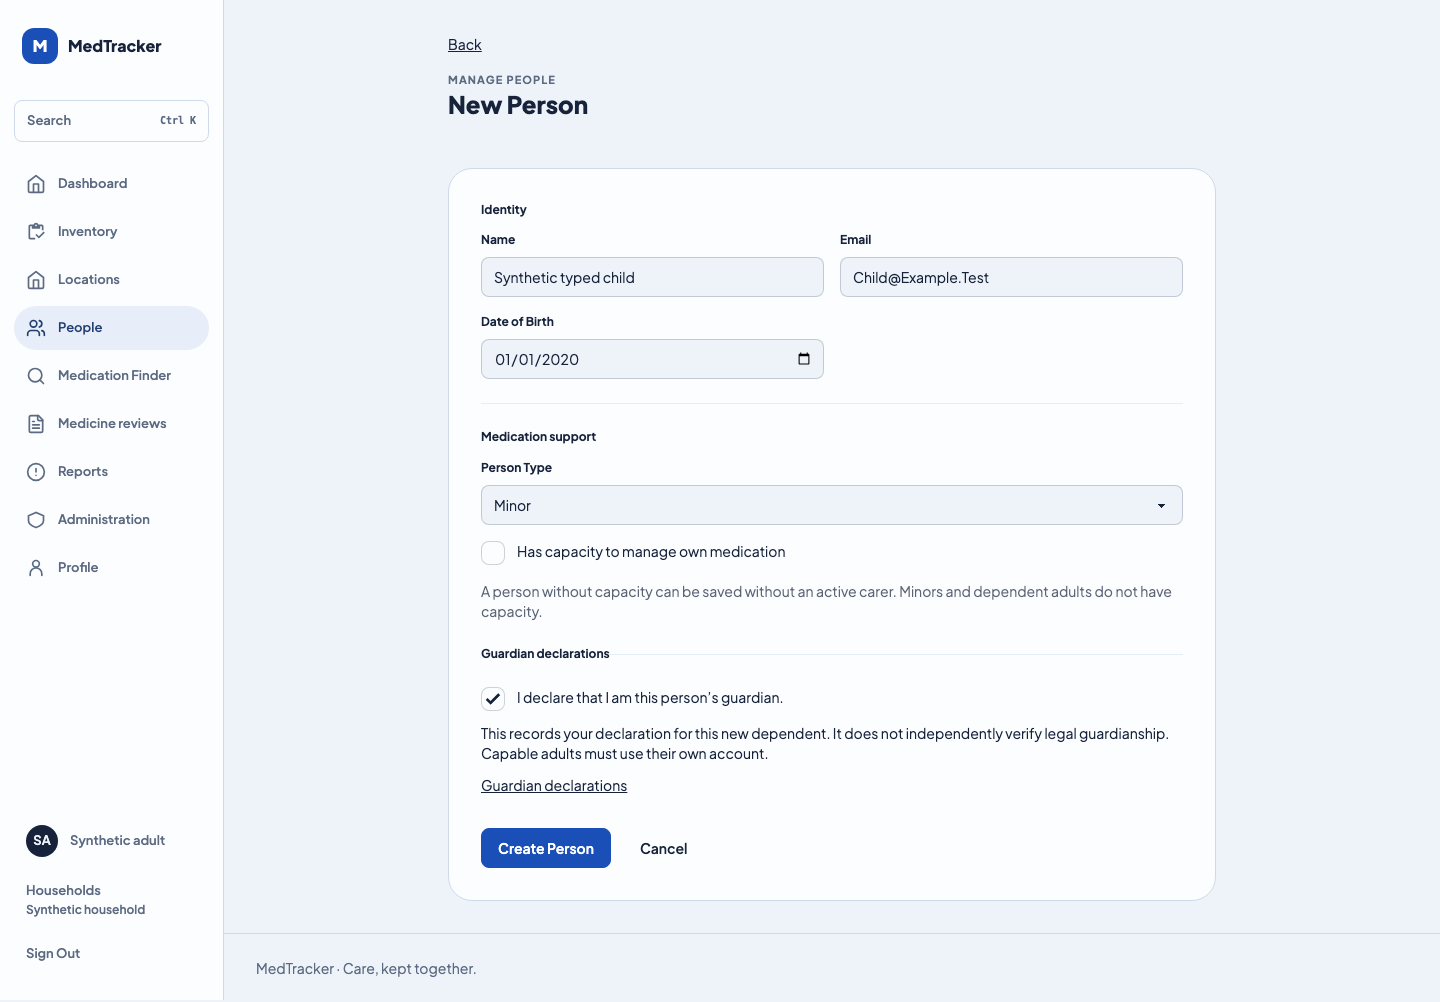
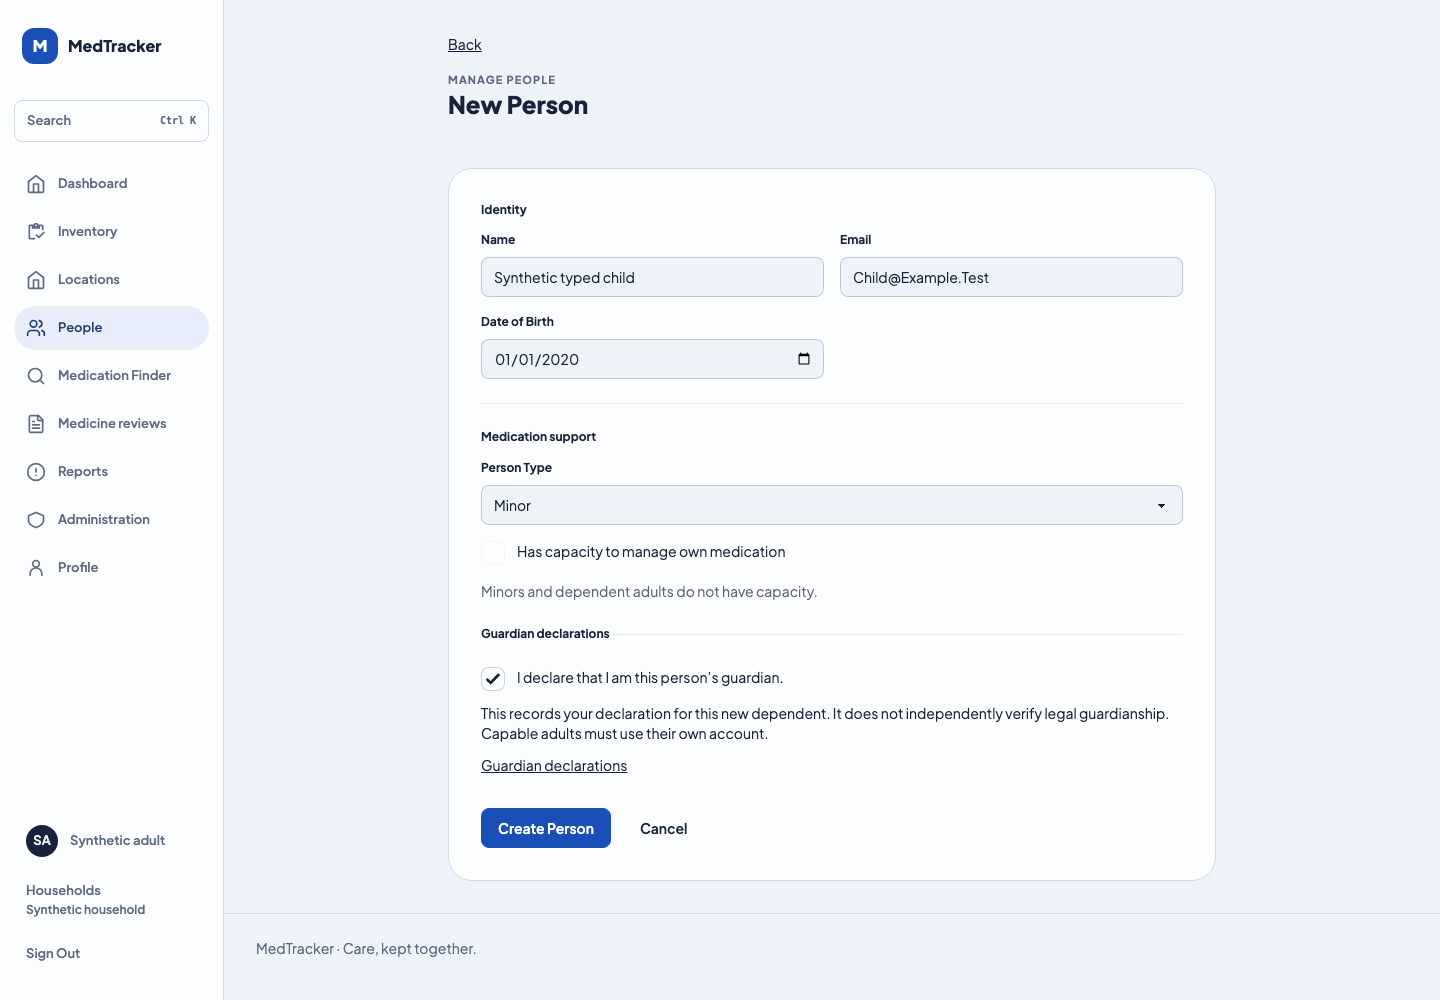
fix: clarify capacity on new person forms (#2920)

diff --git a/assets/views/people/form.html b/assets/views/people/form.html
@@ -24,10 +24,10 @@
             {% for type in types %}<option value="{{ type.value }}" {% if type.value == draft.person_type %}selected{% endif %}>{{ type.label }}</option>{% endfor %}
           </select></div>
         <label class="flex items-start gap-3" for="has_capacity">
-          <input id="has_capacity" name="has_capacity" type="checkbox" value="true" class="checkbox shrink-0" {% if focus_field == "has_capacity" %}autofocus{% endif %} {% if draft.has_capacity == "true" %}checked{% endif %} {% if capacity_invalid %}aria-invalid="true" aria-describedby="form-error-has_capacity"{% endif %}>
+          <input id="has_capacity" name="has_capacity" type="checkbox" value="true" class="checkbox shrink-0" {% if focus_field == "has_capacity" %}autofocus{% endif %} {% if editing and draft.has_capacity == "true" %}checked{% endif %} {% if not editing %}disabled{% endif %} {% if capacity_invalid %}aria-invalid="true"{% endif %} aria-describedby="capacity-hint{% if capacity_invalid %} form-error-has_capacity{% endif %}">
           {{ labels.people.form.has_capacity }}
         </label>
-        <p class="text-sm text-base-content/70">{{ capacity_hint }}</p>
+        <p id="capacity-hint" class="text-sm text-base-content/70">{% if editing %}{{ capacity_hint }}{% else %}{{ labels.people.form.dependent_capacity_hint }}{% endif %}</p>
       </fieldset>
       {% if not editing %}
       <fieldset class="grid gap-3 border-t border-base-300 pt-6">

diff --git a/tests/browser/dependent_creation.rs b/tests/browser/dependent_creation.rs
@@ -25,6 +25,13 @@ async fn dependent_creation_keeps_form_and_guardian_declaration() {
                 )
                 .await
                 .unwrap();
+                for person_type in ["minor", "dependent_adult", "minor"] {
+                    page.locator("#person_type").select_option(person_type, None).await.unwrap();
+                    assert!(page.evaluate::<(), bool>(
+                        "() => { const capacity = document.getElementById('has_capacity'); return capacity.disabled && !capacity.checked; }",
+                        None,
+                    ).await.unwrap());
+                }
                 page.get_by_label("Name", true)
                     .fill("Synthetic typed child", None)
                     .await
@@ -70,6 +77,15 @@ async fn dependent_creation_keeps_form_and_guardian_declaration() {
                     .await
                     .unwrap();
                 }
+                page.get_by_label("Date of Birth", true).fill("2999-01-01", None).await.unwrap();
+                page.get_by_role(AriaRole::Button, named("Create Person")).click(None).await.unwrap();
+                expect(page.locator("[role=alert]")).to_be_visible().await.unwrap();
+                assert!(page.evaluate::<(), bool>(
+                    "() => { const capacity = document.getElementById('has_capacity'); return capacity.disabled && !capacity.checked; }",
+                    None,
+                ).await.unwrap());
+                page.get_by_label("Date of Birth", true).fill("2020-01-01", None).await.unwrap();
+                page.locator("#initial_guardian_declaration").check(None).await.unwrap();
                 page.get_by_role(AriaRole::Button, named("Create Person"))
                     .click(None)
                     .await
@@ -99,6 +115,11 @@ async fn dependent_creation_keeps_form_and_guardian_declaration() {
                         .unwrap(),
                     1
                 );
+                page.goto(&format!("{}/households/persistence-fixture/people/73001/edit", journey.origin), None).await.unwrap();
+                assert!(page.evaluate::<(), bool>(
+                    r#"() => { const capacity = document.getElementById("has_capacity"); return !capacity.disabled && capacity.checked; }"#,
+                    None,
+                ).await.unwrap());
             })
         },
     )
